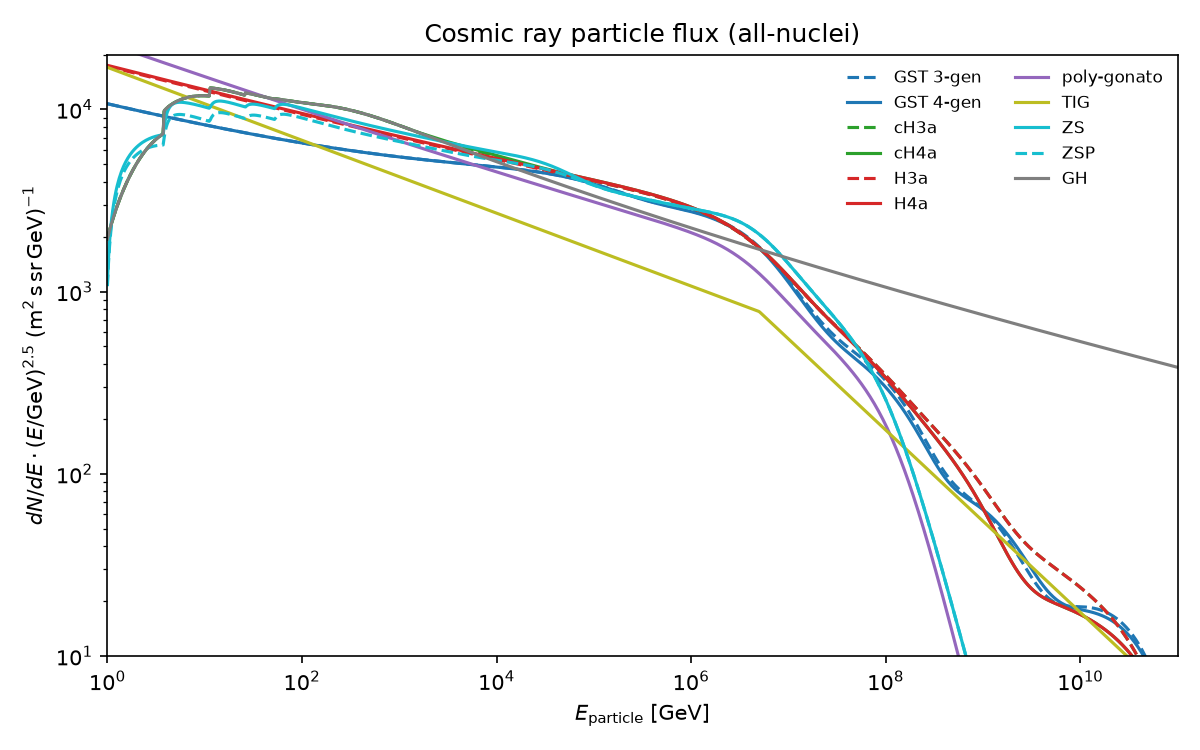
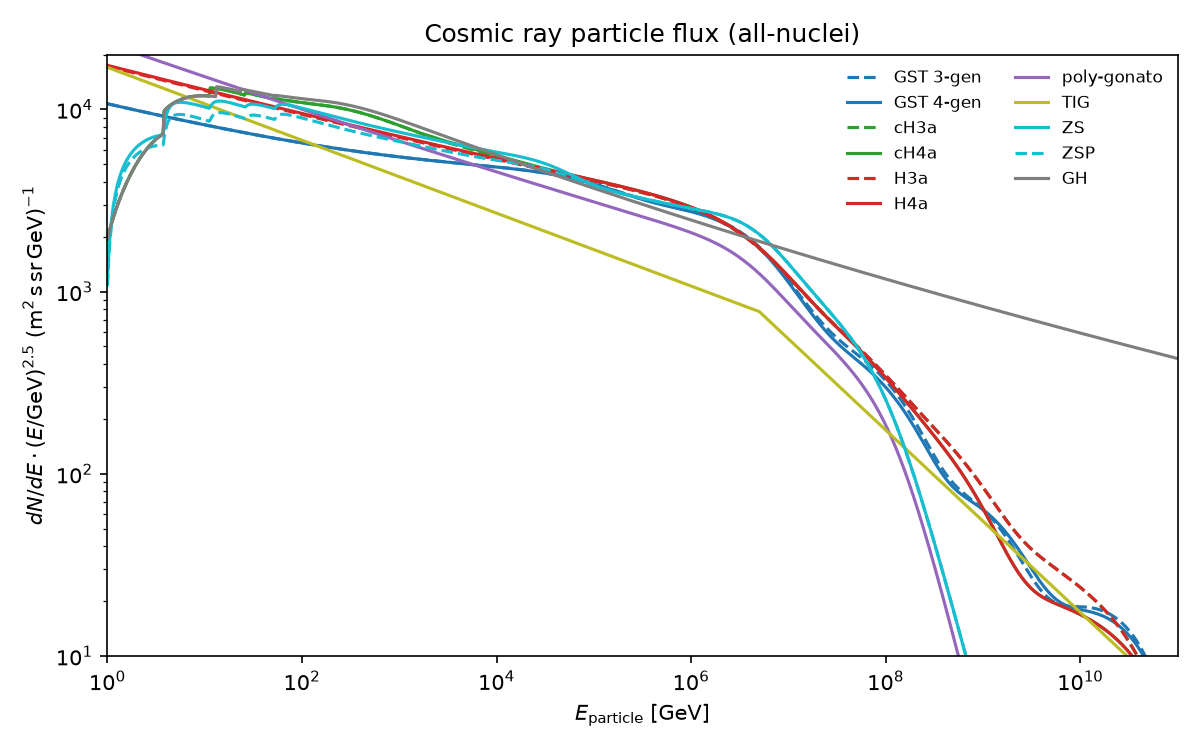
Gaisser-Honda: Table 2 central values, CNO at A = 14, Mg-Si at A = 25
GaisserHonda carried the Mg-Si group as 2814 (A = 28) with alpha + 1 sigma
and K - 1 sigma, and CNO as 1206 (A = 12). It now uses the paper's central
values with CNO as 14N (1407) and Mg-Si as 25Mg (2512). GH nucleon flux
+1.0 to +2.4 % (1 GeV - 10 TeV/n), neutrons +4 to +7 %, lnA +0.09 to +0.12.
CombinedGHandHG (PRD 86, 114024) keeps GH on the HG groups and is
unchanged. Docs plots regenerated.

diff --git a/crflux/models.py b/crflux/models.py
@@ -633,6 +633,13 @@ class CombinedGHandHG(PrimaryFlux):
         self.sname = "c" + model
         self.params = {}
         self.leModel = GaisserHonda(**kwargs)
+        # PRD 86, 114024 ran GH on the HG groups: CNO as 1206 and Mg-Si as 2814,
+        # the latter with alpha + 1 sigma and K - 1 sigma
+        gh = self.leModel.params
+        gh[1206] = gh.pop(1407)
+        del gh[2512]
+        gh[2814] = (2.79 + 0.08, 34.2 - 6.0, 2.14, 0.01)
+        self.leModel.nucleus_ids = list(gh)
         self.heModel = HillasGaisser2012(model, **kwargs)
         self.heCutOff = 1e5
         cid_list = [14, 402, 1206, 2814, 5626]
@@ -800,8 +807,10 @@ class GaisserHonda(PrimaryFlux):
     it is < 100 TeV/nucleon.
 
     The fit phi(E_k) = K (E_k + b exp(-c sqrt(E_k)))^-alpha (Eq. 10 and
-    Table 2 of the paper; Honda et al., PRD 70, 043008 (2004), Eq. 1) gives
-    the nuclei per GeV of kinetic energy per nucleon E_k. crflux evaluates it
+    Table 2 of the paper, central values, He "high"; Honda et al., PRD 70,
+    043008 (2004), Eq. 1) gives the nuclei per GeV of kinetic energy per
+    nucleon E_k. The CNO (A = 14) and Mg-Si (A = 25) groups are represented by
+    14N (1407) and 25Mg (2512). crflux evaluates it
     at E_k = E/A - :data:`NUCLEON_MASS_GEV` for the total energy E of the
     nucleus and divides by A (dE_k/dE = 1/A).
     """
@@ -813,8 +822,8 @@ class GaisserHonda(PrimaryFlux):
         self.params = {}
         self.params[14] = (2.74, 14900, 2.15, 0.21)
         self.params[402] = (2.64, 600, 1.25, 0.14)
-        self.params[1206] = (2.60, 33.2, 0.97, 0.01)
-        self.params[2814] = (2.79 + 0.08, 34.2 - 6.0, 2.14, 0.01)
+        self.params[1407] = (2.60, 33.2, 0.97, 0.01)  # CNO group, A = 14 (as 14N)
+        self.params[2512] = (2.79, 34.2, 2.14, 0.01)  # Mg-Si group, A = 25 (as 25Mg)
         self.params[5626] = (2.68, 4.45, 3.07, 0.41)
         self.nucleus_ids = list(self.params.keys())
 

diff --git a/tests/test_models.py b/tests/test_models.py
@@ -318,6 +318,19 @@ class TestKineticEnergyModels:
             np.testing.assert_allclose(mod.nucleus_flux(cid, E), phi / A, rtol=1e-12)
         assert mod.nucleus_flux(14, 0.9)[0] == 0.0  # below the rest mass
 
+    def test_gaisser_honda_is_table_2(self):
+        """Central values of GH 2002 Table 2 (He "high"); CNO at A = 14, Mg-Si at A = 25."""
+        assert mods.GaisserHonda().params == {
+            14: (2.74, 14900, 2.15, 0.21),
+            402: (2.64, 600, 1.25, 0.14),
+            1407: (2.60, 33.2, 0.97, 0.01),
+            2512: (2.79, 34.2, 2.14, 0.01),
+            5626: (2.68, 4.45, 3.07, 0.41),
+        }
+        # cH3a/cH4a (PRD 86, 114024) keep GH on the HG groups
+        legacy = mods.CombinedGHandHG("H3a").leModel
+        assert sorted(legacy.nucleus_ids) == [14, 402, 1206, 2814, 5626]
+
     @pytest.mark.parametrize("model", ["pamela", "default"])
     def test_zatsepin_sokolskaya_kinetic_energy_and_modulation(self, model):
         mod = mods.ZatsepinSokolskaya(model)

diff --git a/docs/models.md b/docs/models.md
@@ -40,7 +40,7 @@ $\langle\ln A\rangle$ as a function of energy per particle. Higher values indica
 | `CombinedGHandHG` | Fedynitch et al., PRD 86, 114024 (2012) | Full range | GH at low E, HG at high E |
 | `PolyGonato` | Hoerandel, Astropart. Phys. 19, 193 (2003) | Full range | 11 mass groups |
 | `ZatsepinSokolskaya` | Zatsepin & Sokolskaya, A&A 458, 1 (2006) | < 1-10 PeV | Variants: `default`, `pamela`; fit in kinetic energy per nucleus, force-field modulation Φ = 600 MV |
-| `GaisserHonda` | Gaisser & Honda, ARNPS 52, 153 (2002) | < 100 TeV | Tuned to balloon data; fit in kinetic energy per nucleon |
+| `GaisserHonda` | Gaisser & Honda, ARNPS 52, 153 (2002) | < 100 TeV | Tuned to balloon data; fit in kinetic energy per nucleon; Table 2 central values, CNO as 1407 (A = 14), Mg-Si as 2512 (A = 25) |
 | `Thunman` | Thunman et al., Astropart. Phys. 5, 309 (1996) | Full range | Proton-only broken power law |
 | `SimplePowerlaw27` | Based on Thunman | Below knee | Proton-only $E^{-2.7}$ |
 | `GlobalSplineFit` | Fedynitch et al., arXiv:2609.32649 (2026) | 1 GeV - $10^{11}$ GeV | Via globalsplinefit (`gsf` extra); all species, versions 2026.1/2025/2019/2017 |
